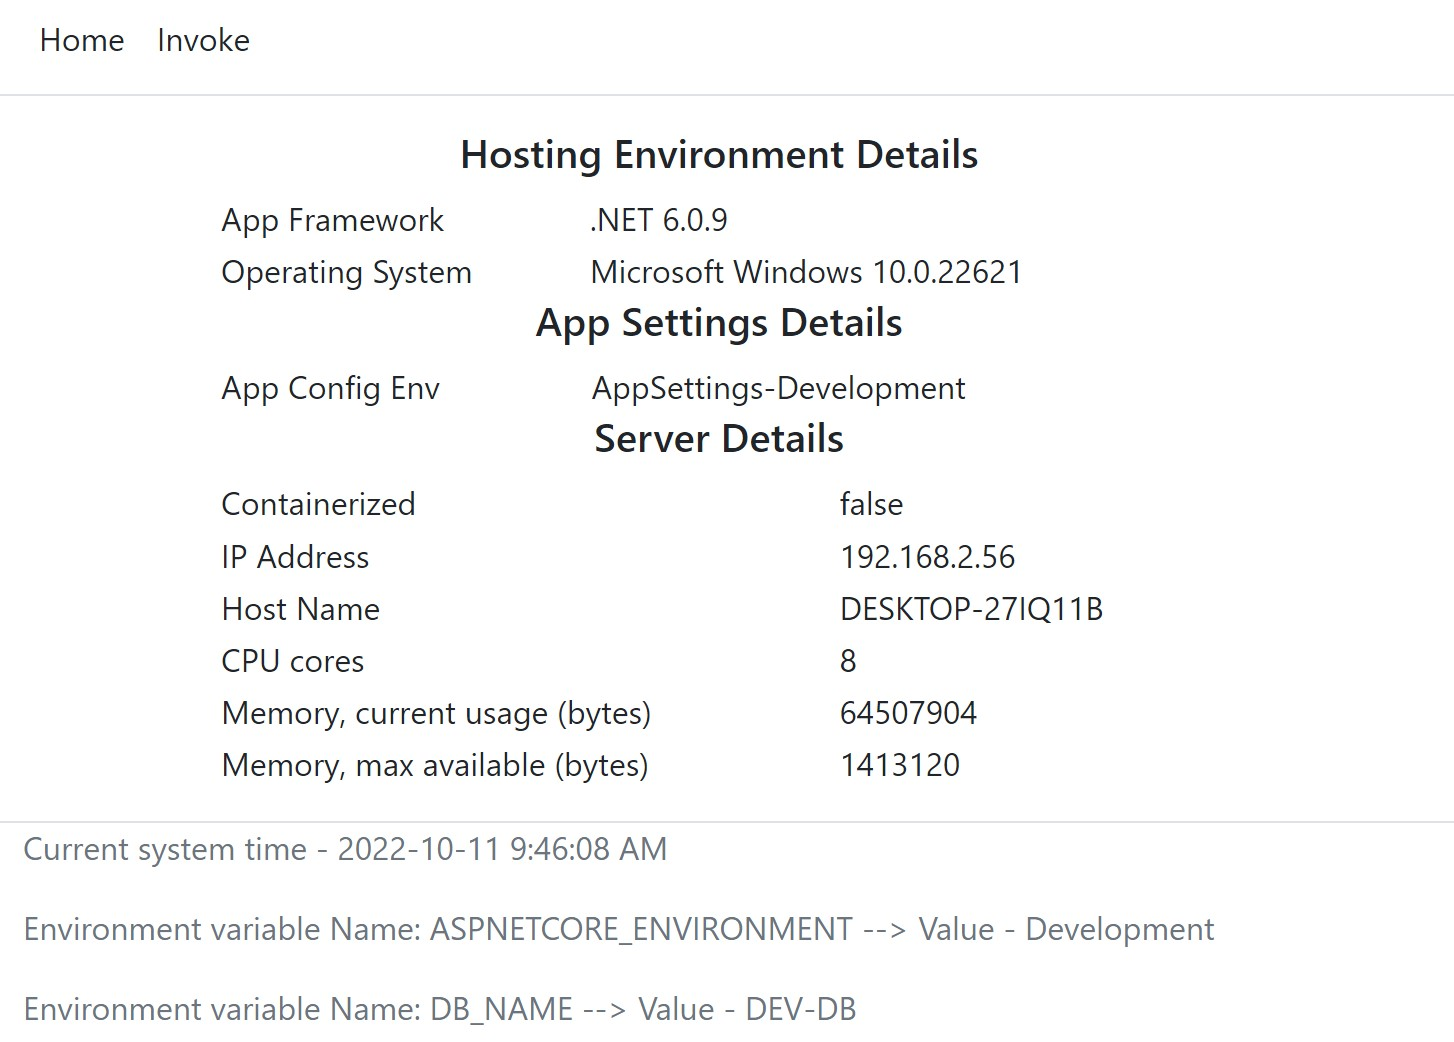
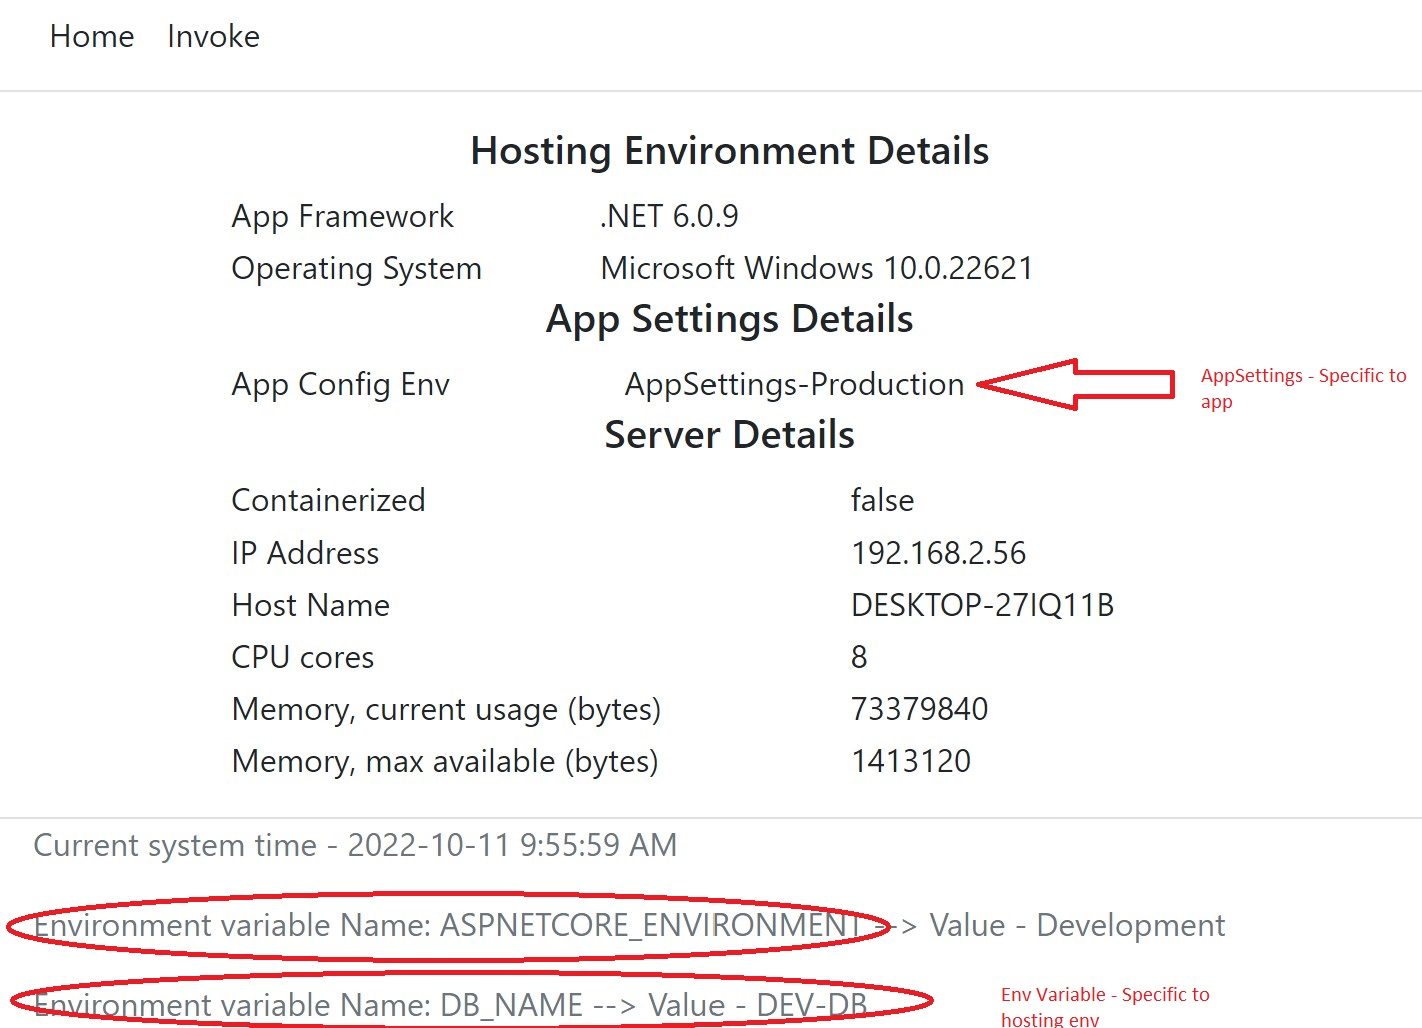
Updated readme

diff --git a/README.md b/README.md
@@ -9,6 +9,13 @@ The web application does the following:
     * ASPNETCORE_ENVIRONMENT (dotnet in-built)
     * DB_NAME (custom)
 
+```bash
+# Run the application by loading the appsettings file
+dotnet run --environment Production
+
+dotnet run --environment Development
+```
+
 ![alt txt](/images/dotnetapp1.jpg)
 
 ![alt txt](/images/dotnetapp2.jpg)
